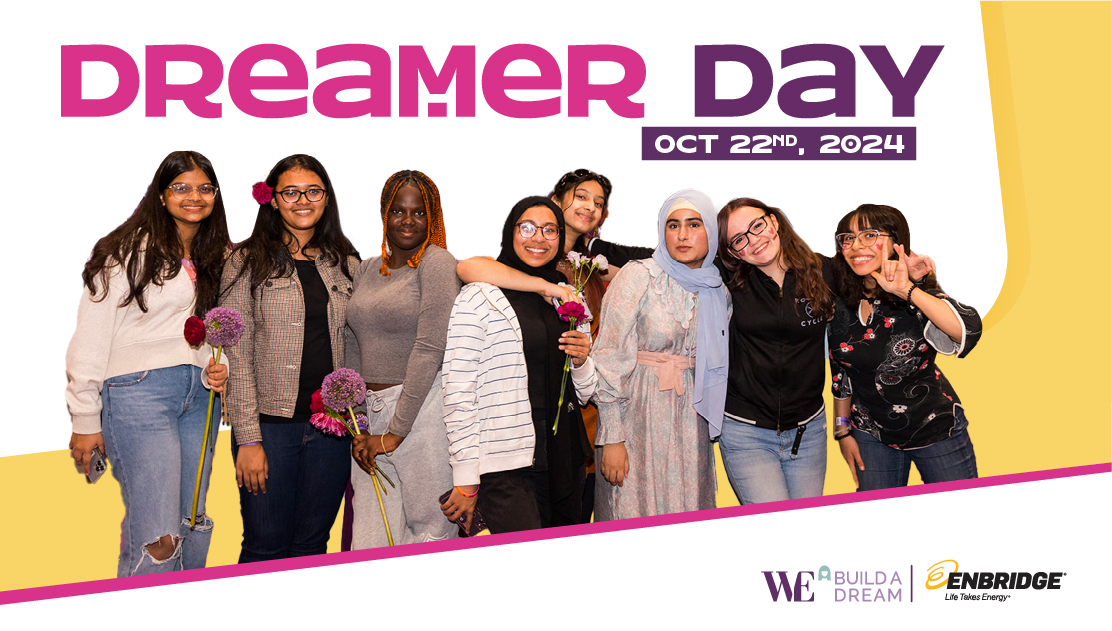
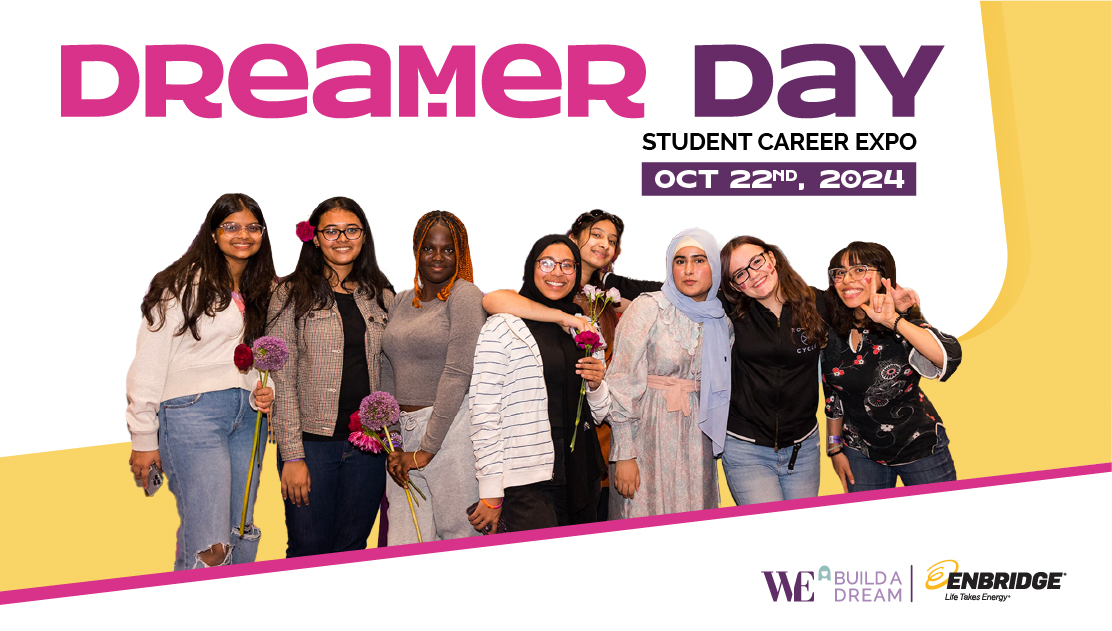
updates

diff --git a/index.html b/index.html
@@ -30,6 +30,7 @@
                         </h2>
                         <div id="collapseOne" class="accordion-collapse collapse" aria-labelledby="headingOne" data-bs-parent="#accordionExample">
                            <div class="accordion-body">
+                              <aside><strong>Student Career Expo</strong></aside>
                               <p>October 22 @ 9:30 AM - 2:00 PM</p>
                               <p><strong>Enercare Centre:</strong> 1-100 Princes' Blvd, Toronto, ON, Canada</p>
                               <p>DREAM BIG at our 3rd Annual Dreamer Day...</p>
@@ -45,6 +46,7 @@
                         </h2>
                         <div id="collapseTwo" class="accordion-collapse collapse" aria-labelledby="headingTwo" data-bs-parent="#accordionExample">
                            <div class="accordion-body">
+                              <aside><strong>Industry Gala</strong></aside>
                               <p>October 22 @ 6:00 PM - 10:00 PM</p>
                               <p><strong>Palais Royale:</strong> 1601 Lake Shore Blvd. West, Toronto, ON</p>
                               <p>We invite everyone to join our 3rd annual Afterglow party...</p>
@@ -60,6 +62,7 @@
                         </h2>
                         <div id="collapseThree" class="accordion-collapse collapse" aria-labelledby="headingThree" data-bs-parent="#accordionExample">
                            <div class="accordion-body">
+                              <aside><strong>Job Fair</strong></aside>
                               <p>October 23 @ 11:00 PM - 5:00 PM</p>
                               <p><strong>Enercare Centre:</strong> 1-100 Princes' Blvd, Toronto, ON, Canada</p>
                               <p>Unlock Your Future: A Gateway to the Skilled Trades...</p>
@@ -75,6 +78,7 @@
                         </h2>
                         <div id="collapseFour" class="accordion-collapse collapse" aria-labelledby="headingFour" data-bs-parent="#accordionExample">
                            <div class="accordion-body">
+                              <aside><strong>Professional Development Conference</strong></aside>
                               <p>October 25 @ 1:00 PM - 4:00 PM</p>
                               <p>October 26 @ 1:00 PM - 4:00 PM</p>
                               <p><strong>Exhibition Place:</strong> 100 Princes' Blvd Toronto, ON M6K 3C3</p>
@@ -89,19 +93,19 @@
                   <div id="carouselExample" class="carousel slide" data-bs-ride="carousel">
                      <div class="carousel-inner">
                         <div class="carousel-item active">
-                           <img src="banner1.jpg" class="d-block w-100 rounded" alt="Event Image 1">
+                           <img src="banner2.jpg" class="d-block w-100 rounded" alt="Dreamer Day Event Banner">
                            <a href="https://www.dreamerday.ca/" class="btn btn-custom">Learn More</a>
                         </div>
                         <div class="carousel-item">
-                           <img src="banner2.jpg" class="d-block w-100 rounded" alt="Event Image 2">
+                           <img src="banner4.jpg" class="d-block w-100 rounded" alt="Afterglow Banner">
                            <a href="https://www.webuildadream.com/event/afterglow/" class="btn btn-custom">Learn More</a>
                         </div>
                         <div class="carousel-item">
-                           <img src="banner3.jpg" class="d-block w-100 rounded" alt="Event Image 2">
+                           <img src="banner3.jpg" class="d-block w-100 rounded" alt="You'r Hired Event Banner">
                            <a href="https://example.com/link1" class="btn btn-custom">Learn More</a>
                         </div>
                         <div class="carousel-item">
-                           <img src="banner4.jpg" class="d-block w-100 rounded" alt="Event Image 2">
+                           <img src="banner1.jpg" class="d-block w-100 rounded" alt="Dream & Build Event Banner">
                            <a href="https://example.com/link1" class="btn btn-custom">Learn More</a>
                         </div>
                      </div>

diff --git a/mystyle.css b/mystyle.css
@@ -82,6 +82,9 @@ body {
     color: #5e2f64;
     font-weight: 700;
     }
+    aside strong{
+        font-size: 1.3em;
+        }
     .accordion-collapse collapse {
     display: flex;
     flex-wrap: wrap;
